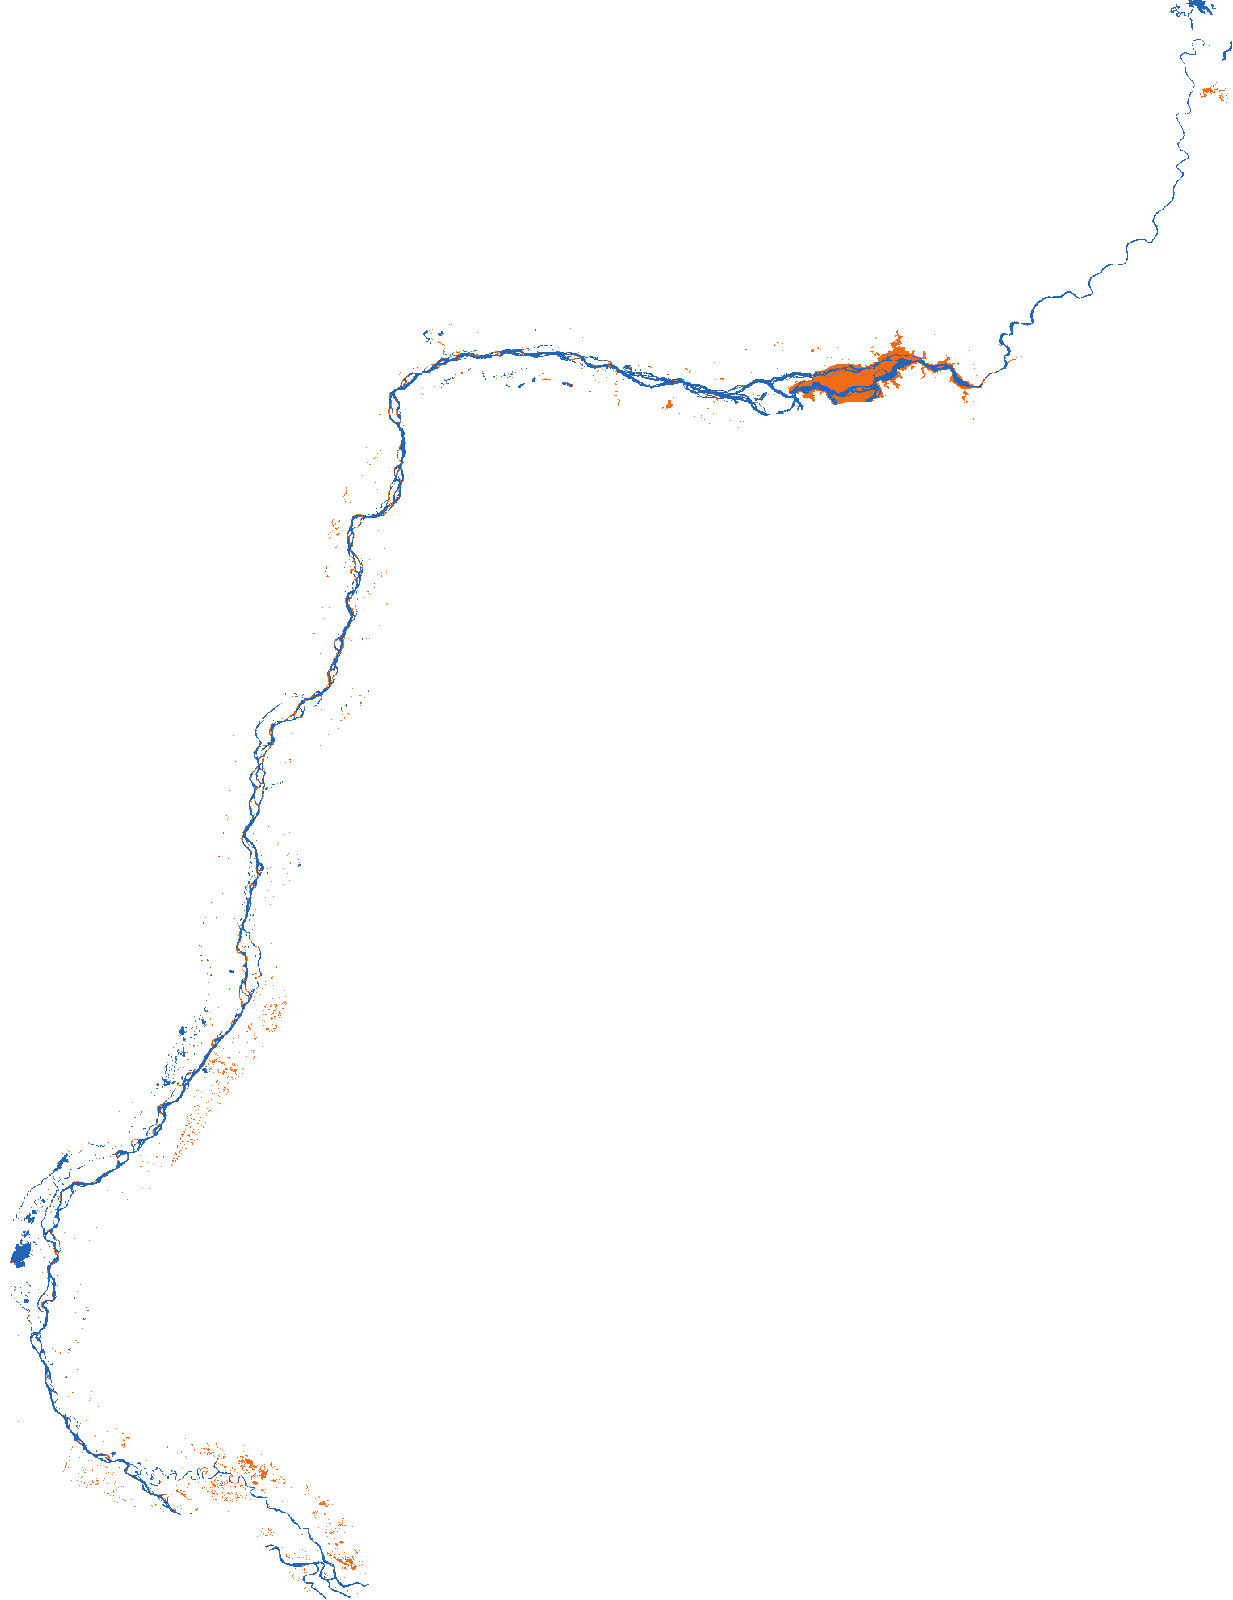
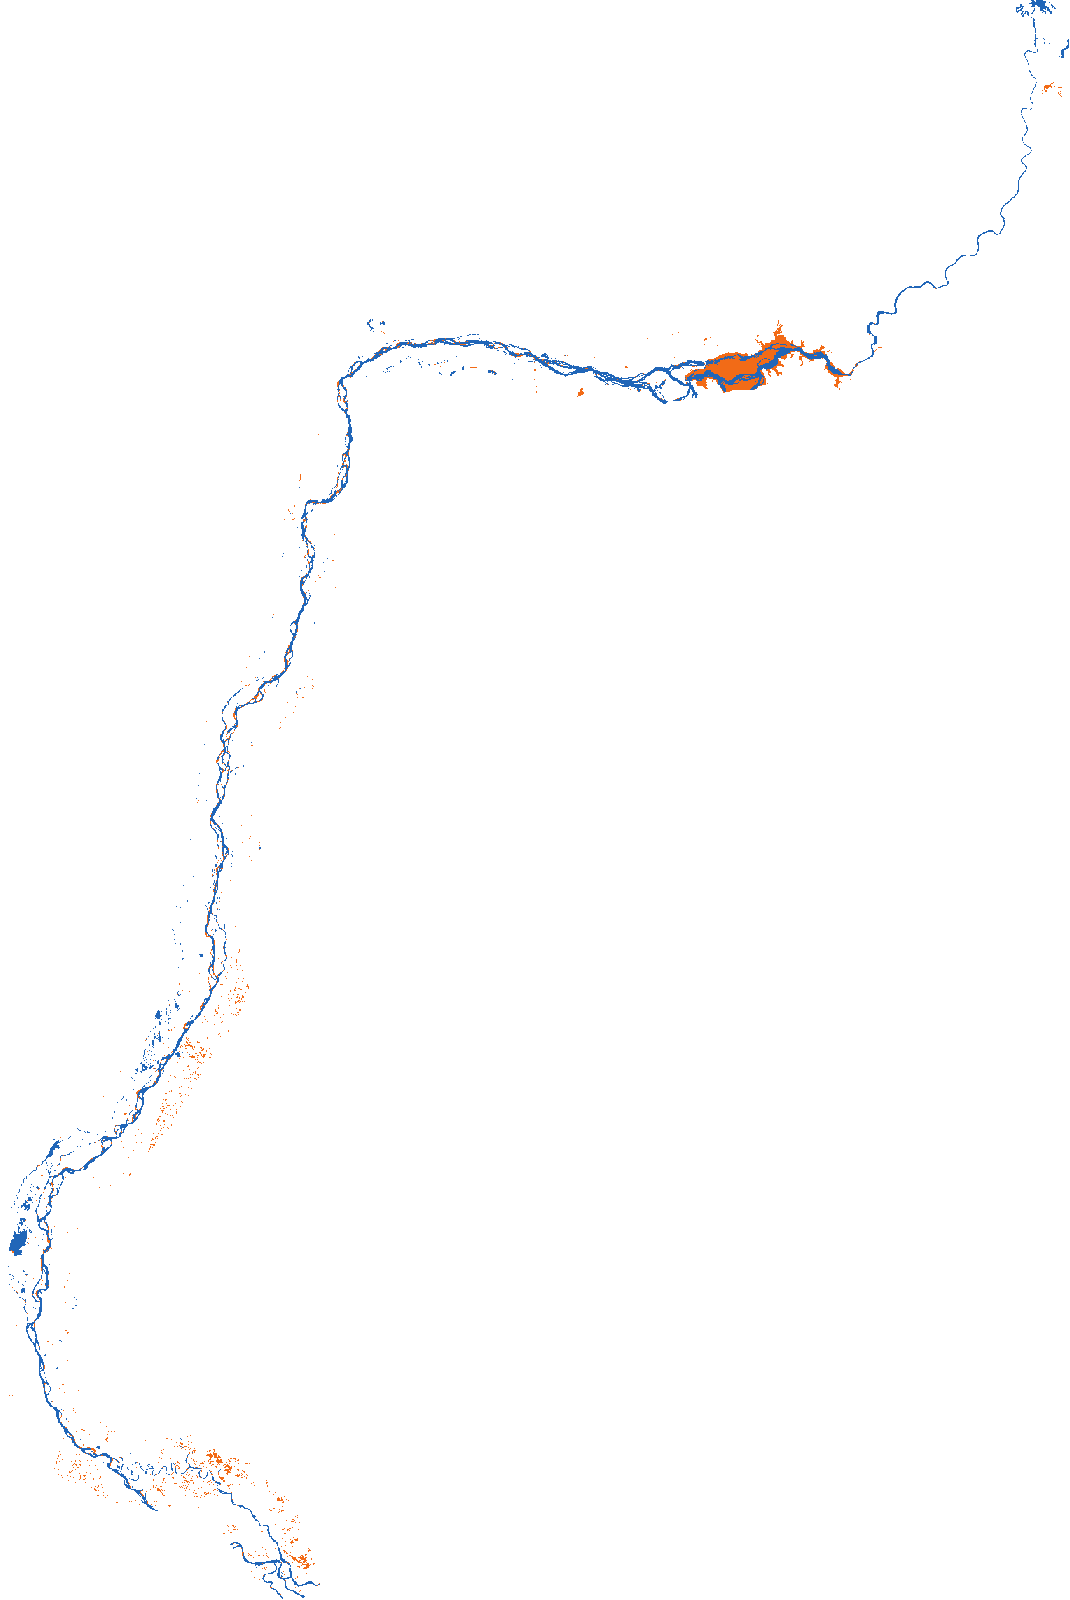
Put the water back on the river: render the overlays in Web Mercator
A reader looked at the map and said the flood did not line up with the
valley underneath it. They were right.

getThumbURL renders in EPSG:4326 by default, which is linear in latitude.
Leaflet's imageOverlay stretches an image linearly across its bounds in
EPSG:3857, which is not. The two agree only at the top and bottom edges;
in between the overlay slides toward the pole. Over this run's 8.5 degrees
of latitude that reached 10.1 km near -29.65, which is why the water was
drawn beside the river rather than on it.

The bug is older than the Delta. At Corrientes to Villa Constitucion it
was about 5 km, already wrong and small enough to read as the radar being
imprecise. Extending north to the frontier doubled the span and doubled
the error, which is what made it visible.

Measured on the newest frame, by projecting every third centreline vertex
the way Leaflet does and looking for drawn water within a kilometre:

  before   67% of the centreline on water, bands from 47% to 92%
  after    99%, every band 94% or better

Nothing in the pipeline could have caught this. The areas were right, the
calibration was right, the thresholds were right and the colours were
right - the only thing wrong was where the picture was put, and no number
in the export depends on that. Both checks are now tests: that the render
asks for EPSG:3857, and that the water actually falls on the river, band
by band, because a misprojection is perfect at the edges and an overall
figure alone would hide it.

diff --git a/tests/test_mapframes.py b/tests/test_mapframes.py
@@ -1,0 +1,124 @@
+"""The georeferencing of the radar overlays.
+
+An overlay that is drawn beautifully and placed wrongly is worse than no
+overlay, because it looks like a measurement. This caught a real one: the
+frames were rendered in EPSG:4326, which is linear in latitude, and laid
+over the map by Leaflet's ``imageOverlay``, which stretches an image
+linearly across its bounds in EPSG:3857, which is not. The two agree only
+at the top and bottom edges. In between the water slid toward the pole -
+up to 10 km over this run's 8.5 degrees of latitude - so the flood was
+drawn next to the river rather than on it.
+
+Nothing in the pipeline noticed. The areas were right, the calibration was
+right, the colours were right, and the picture was wrong. A reader spotted
+it by looking at the map.
+"""
+
+from __future__ import annotations
+
+import json
+import math
+from pathlib import Path
+
+import pytest
+
+SITE = Path("site")
+INDEX = SITE / "data/map_frames.json"
+CORRIDORS = Path("data/corridors.json")
+
+#: How far from a centreline vertex to look for drawn water. The channel is
+#: narrow and the walked centreline is a simplification of it, so a
+#: kilometre is generous without being meaningless - the misprojection this
+#: guards against was ten times that.
+RADIUS_KM = 1.0
+
+#: The whole river, and every band of it. The overall figure alone would
+#: hide the failure, because a misprojection is perfect at the edges.
+MIN_OVERALL_PCT = 95
+MIN_BAND_PCT = 85
+
+pytestmark = pytest.mark.skipif(
+    not INDEX.exists() or not CORRIDORS.exists(),
+    reason="no rendered frames to check",
+)
+
+
+def merc(lat: float) -> float:
+    """Web Mercator y, the way Leaflet places an image overlay."""
+    return math.log(math.tan(math.pi / 4 + math.radians(lat) / 2))
+
+
+def test_the_frames_are_rendered_in_the_projection_they_are_drawn_in():
+    """Stated at the call site, so a future edit has to mean it."""
+    source = Path("src/parana_crecida/mapframes.py").read_text(encoding="utf-8")
+    assert '"crs": "EPSG:3857"' in source, (
+        "getThumbURL defaults to EPSG:4326, which Leaflet will place wrongly"
+    )
+
+
+def water_coverage():
+    """``(overall_pct, {latitude_band: pct})`` for the newest frame."""
+    Image = pytest.importorskip("PIL.Image", reason="Pillow not installed")
+
+    index = json.loads(INDEX.read_text(encoding="utf-8"))
+    (south, west), (north, east) = index["bounds"]
+    frame = index["frames"][-1]
+    path = SITE / frame["image"]
+    if not path.exists():
+        pytest.skip(f"{frame['image']} is not committed")
+
+    image = Image.open(path).convert("RGBA")
+    width, height = image.size
+    pixels = image.load()
+    y_north, y_south = merc(north), merc(south)
+    km_per_px = (east - west) * 98.0 / width
+    radius = max(1, round(RADIUS_KM / km_per_px))
+
+    bands: dict[int, list[bool]] = {}
+    corridors = json.loads(CORRIDORS.read_text(encoding="utf-8"))
+    for stretch in corridors["stretches"]:
+        for lon, lat in stretch["centreline"][::3]:
+            if not (south <= lat <= north and west <= lon <= east):
+                continue
+            x = round((lon - west) / (east - west) * width)
+            y = round((y_north - merc(lat)) / (y_north - y_south) * height)
+            found = any(
+                0 <= x + dx < width and 0 <= y + dy < height
+                and pixels[x + dx, y + dy][3] > 0
+                for dx in range(-radius, radius + 1)
+                for dy in range(-radius, radius + 1)
+            )
+            bands.setdefault(int(lat), []).append(found)
+
+    assert bands, "no centreline vertex fell inside the frame"
+    flat = [hit for v in bands.values() for hit in v]
+    return (
+        sum(flat) / len(flat) * 100,
+        {b: sum(v) / len(v) * 100 for b, v in bands.items()},
+        {b: len(v) for b, v in bands.items()},
+    )
+
+
+def test_the_drawn_water_lies_on_the_river():
+    overall, _, _ = water_coverage()
+    assert overall >= MIN_OVERALL_PCT, (
+        f"only {overall:.0f}% of the river's centreline has water drawn on "
+        f"it; the overlay is not where the river is"
+    )
+
+
+def test_no_stretch_of_the_river_is_left_dry():
+    """The shape of the failure, not just its size.
+
+    A misprojection is perfect at the top and bottom edges and worst in the
+    middle, so an overall figure can look respectable while the centre of
+    the map is badly wrong. Before this was fixed the overall was 67% and
+    two latitude bands sat near 47%.
+    """
+    _, by_band, counts = water_coverage()
+    bad = {
+        band: round(pct)
+        for band, pct in by_band.items()
+        if pct < MIN_BAND_PCT and counts[band] >= 10
+    }
+    assert not bad, f"latitude bands with the water off the river: {bad}"

diff --git a/src/parana_crecida/mapframes.py b/src/parana_crecida/mapframes.py
@@ -164,8 +164,18 @@ def render(
         # visualize() turns the float RGB into 8-bit bands; the mask comes
         # through as the PNG's alpha channel, which is what makes the land
         # transparent over the basemap.
+        # crs matters, and its absence was a bug worth naming. getThumbURL
+        # renders in EPSG:4326 by default - linear in latitude - while
+        # Leaflet's imageOverlay stretches the image linearly across the
+        # bounds in EPSG:3857, which is not. The two only agree at the top
+        # and bottom edges; in between the overlay slides toward the pole.
+        # Over this run's 8.5 degrees of latitude that put the water up to
+        # 10 km south of the river it was meant to be lying on, worst near
+        # -29.65. Rendering in Mercator to begin with makes Leaflet's linear
+        # placement the right thing to do.
         url = painted.visualize(min=0, max=1).getThumbURL(
-            {"region": region, "dimensions": px, "format": "png"}
+            {"region": region, "dimensions": px, "format": "png",
+             "crs": "EPSG:3857"}
         )
         path = out_dir / f"water_{end.isoformat()}.png"
         response = requests.get(url, timeout=300)
